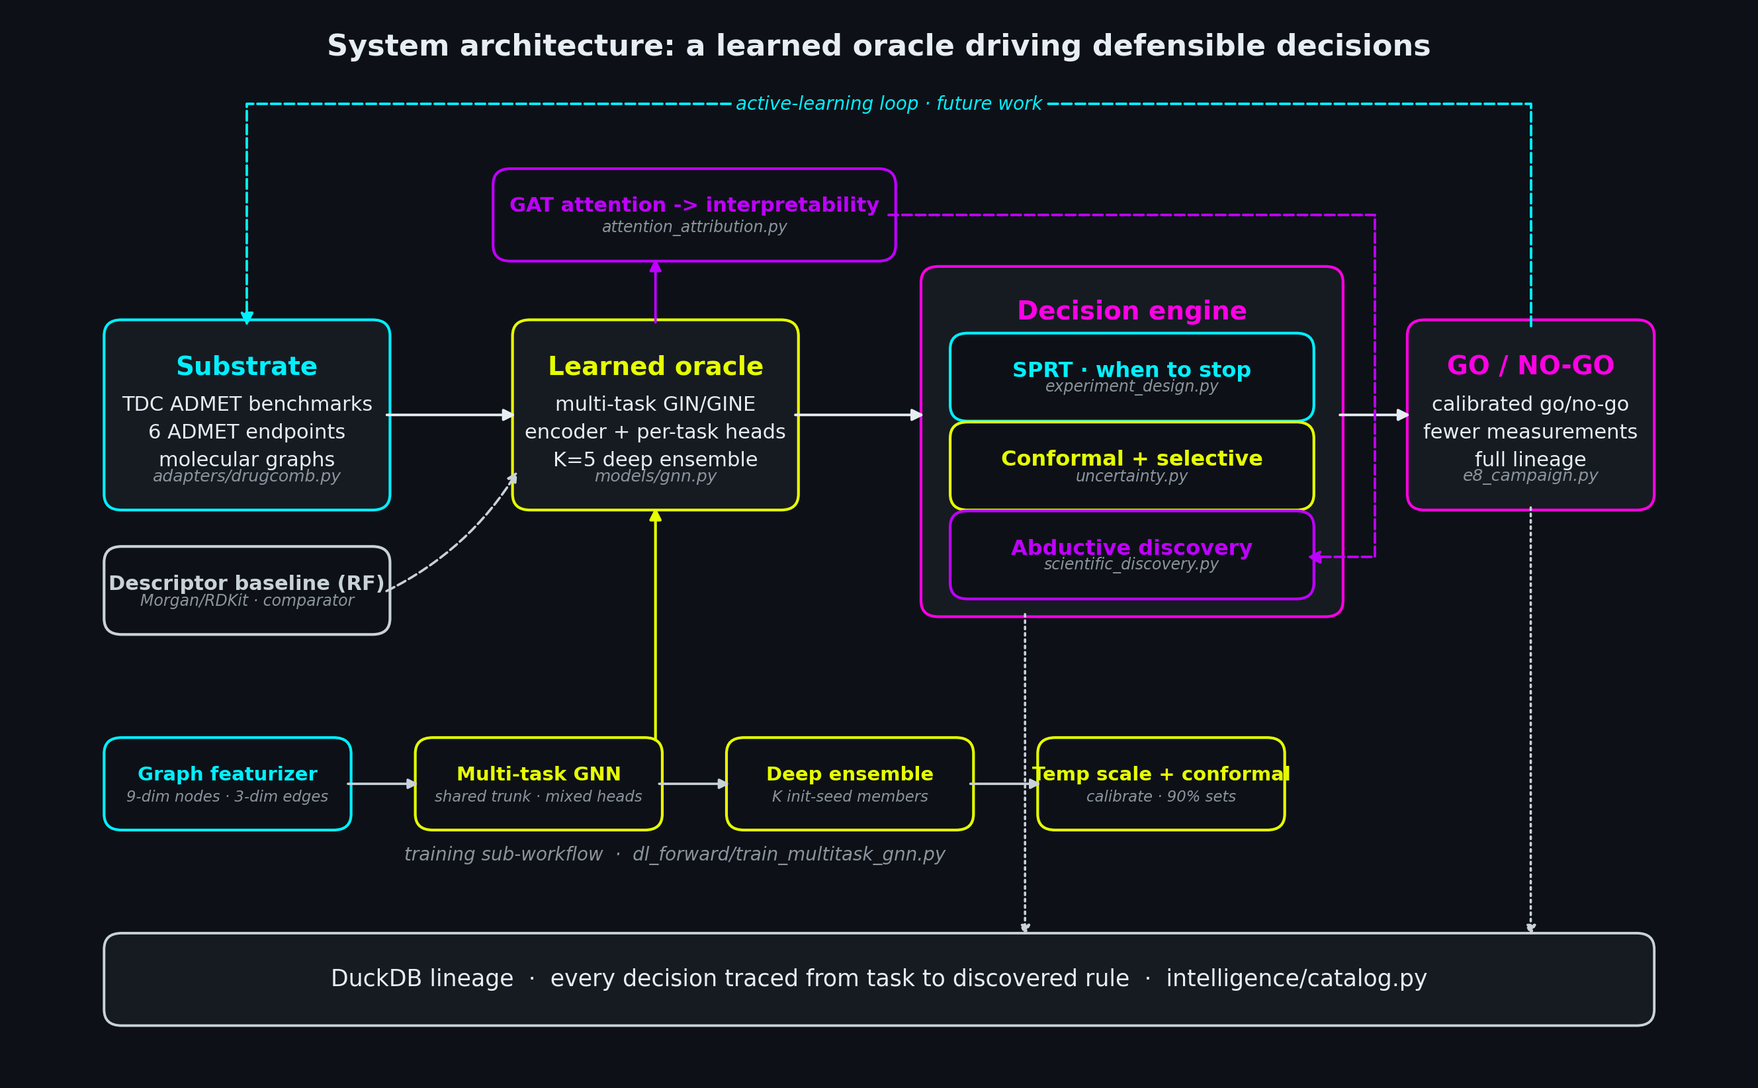
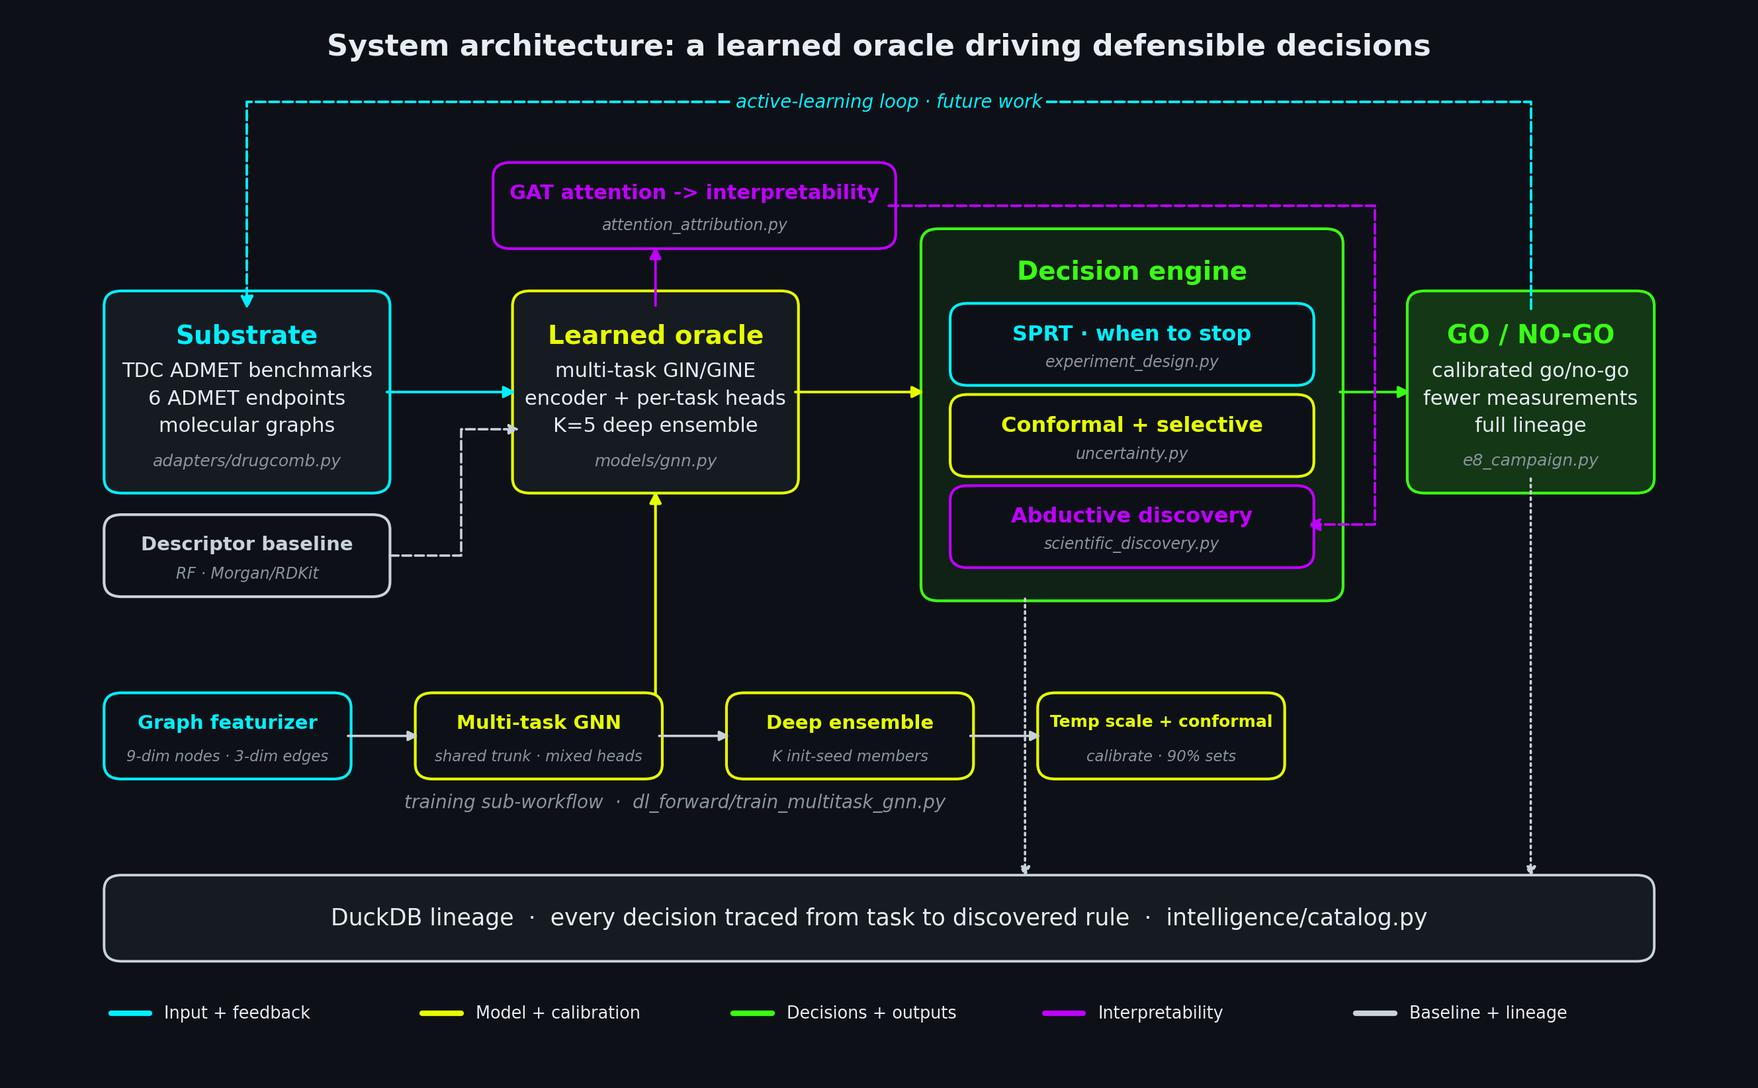
Clean manuscript prose and add green fills to architecture figure
- P1: remove inline figure filenames and 'regenerated by' clauses,
  sequential figure embeds fig0-fig10, enlarge fig0/7/8/9/10
- P2: strip 'regenerated by' clauses; refresh architecture figure with
  green fills on Decision engine and GO/NO-GO so 'decisions and outputs'
  green is clearly visible

diff --git a/preprint/dl_forward/architecture_figure_v2.py b/preprint/dl_forward/architecture_figure_v2.py
@@ -29,12 +29,11 @@ sys.path.insert(0, str(ROOT))
 sys.path.insert(0, str(ROOT / "src"))
 
 from snptx.viz.theme import (  # noqa: E402
-    BORDER,
     CARD_BG,
     DARK_BG,
     NEON_BLUE,
     NEON_GREY,
-    NEON_PINK,
+    NEON_GREEN,
     NEON_PURPLE,
     NEON_YELLOW,
     TEXT_PRIMARY,
@@ -51,21 +50,25 @@ plt.rcParams.update({
     "text.color": TEXT_PRIMARY,
 })
 
-# Neon house palette (no orange): the star oracle is yellow, the decision engine pink,
-# the interpretability branch purple, and structural/reference elements bright grey.
+# Color identifies a component's role: blue inputs/feedback, yellow learning/calibration,
+# green decisions, purple interpretability, grey baseline/lineage.
 C_SUBSTRATE = NEON_BLUE
 C_ORACLE    = NEON_YELLOW
-C_ENGINE    = NEON_PINK
+C_ENGINE    = NEON_GREEN
 C_SPRT      = NEON_BLUE
 C_CONFORMAL = NEON_YELLOW
 C_ABDUCTIVE = NEON_PURPLE
-C_GONOGO    = NEON_PINK
+C_GONOGO    = NEON_GREEN
+# Subtle green fills so the decisions/outputs role reads clearly, matching the legend.
+FILL_DECISION = (0.223, 1.0, 0.078, 0.07)
+FILL_GONOGO   = (0.223, 1.0, 0.078, 0.16)
 C_ATTN      = NEON_PURPLE
 C_STRUCT    = NEON_GREY
 
 
 def stage(ax, x, y, w, h, title, accent, *, body=None, tag=None,
-          face=CARD_BG, title_size=14, body_size=11, tag_size=9, title_pad=3.2):
+          face=CARD_BG, title_size=14, body_size=11, tag_size=9,
+          title_pad=3.2, tag_pad=2.2):
     """Draw a rounded stage box: accent title, optional body lines and module tag."""
     ax.add_patch(FancyBboxPatch(
         (x, y), w, h, boxstyle="round,pad=0.7,rounding_size=1.8",
@@ -77,7 +80,7 @@ def stage(ax, x, y, w, h, title, accent, *, body=None, tag=None,
         ax.text(cx, y + h - title_pad - 4.6, "\n".join(body), ha="center", va="top",
                 fontsize=body_size, color=TEXT_PRIMARY, linespacing=1.55)
     if tag:
-        ax.text(cx, y + 2.2, tag, ha="center", va="bottom",
+        ax.text(cx, y + tag_pad, tag, ha="center", va="bottom",
                 fontsize=tag_size, style="italic", color=TEXT_SECONDARY)
 
 
@@ -99,47 +102,48 @@ def bracket(ax, pts, color, *, ls="--", lw=1.4, ms=14):
 def build() -> Path:
     fig, ax = plt.subplots(figsize=(16.5, 9.6), constrained_layout=False)
     ax.set_xlim(-2, 172)
-    ax.set_ylim(0, 110)
+    ax.set_ylim(-8, 110)
     ax.axis("off")
     ax.set_title("System architecture: a learned oracle driving defensible decisions",
                  fontsize=16, fontweight="bold", color=TEXT_PRIMARY, pad=12)
 
     # ------------------------------------------------------------------ main row
     # Substrate -> learned oracle -> decision engine -> GO/NO-GO, all on one band.
-    stage(ax, 6, 62, 28, 20, "Substrate", C_SUBSTRATE,
+    stage(ax, 6, 60.5, 28, 23, "Substrate", C_SUBSTRATE,
           body=["TDC ADMET benchmarks", "6 ADMET endpoints", "molecular graphs"],
           tag="adapters/drugcomb.py")
-    stage(ax, 48, 62, 28, 20, "Learned oracle", C_ORACLE,
+    stage(ax, 48, 60.5, 28, 23, "Learned oracle", C_ORACLE,
           body=["multi-task GIN/GINE", "encoder + per-task heads", "K=5 deep ensemble"],
           tag="models/gnn.py")
 
     # Decision-engine container holds the three coupled decisions, stacked and spaced.
-    stage(ax, 90, 50, 42, 38, "Decision engine", C_ENGINE, title_pad=3.0)
-    stage(ax, 93, 72, 36, 8.5, "SPRT · when to stop", C_SPRT,
+    stage(ax, 90, 47.5, 42, 43.5, "Decision engine", C_ENGINE, title_pad=3.0,
+          face=FILL_DECISION)
+    stage(ax, 93, 73.5, 36, 8.5, "SPRT · when to stop", C_SPRT,
           tag="experiment_design.py", face=DARK_BG,
-          title_size=11.5, tag_size=8.5, title_pad=2.4)
-    stage(ax, 93, 62, 36, 8.5, "Conformal + selective", C_CONFORMAL,
+          title_size=11.5, tag_size=8.5, title_pad=1.8, tag_pad=1.1)
+    stage(ax, 93, 62.5, 36, 8.5, "Conformal + selective", C_CONFORMAL,
           tag="uncertainty.py", face=DARK_BG,
-          title_size=11.5, tag_size=8.5, title_pad=2.4)
-    stage(ax, 93, 52, 36, 8.5, "Abductive discovery", C_ABDUCTIVE,
+          title_size=11.5, tag_size=8.5, title_pad=1.8, tag_pad=1.1)
+    stage(ax, 93, 51.5, 36, 8.5, "Abductive discovery", C_ABDUCTIVE,
           tag="scientific_discovery.py", face=DARK_BG,
-          title_size=11.5, tag_size=8.5, title_pad=2.4)
+          title_size=11.5, tag_size=8.5, title_pad=1.8, tag_pad=1.1)
 
-    stage(ax, 140, 62, 24, 20, "GO / NO-GO", C_GONOGO,
+    stage(ax, 140, 60.5, 24, 23, "GO / NO-GO", C_GONOGO,
           body=["calibrated go/no-go", "fewer measurements", "full lineage"],
-          tag="e8_campaign.py")
+          tag="e8_campaign.py", face=FILL_GONOGO)
 
     # Left-to-right pipeline flow (each arrow sits in a clear inter-box gap at y=72).
-    arrow(ax, (34, 72), (48, 72), TEXT_PRIMARY)
-    arrow(ax, (76, 72), (90, 72), TEXT_PRIMARY)
-    arrow(ax, (132, 72), (140, 72), TEXT_PRIMARY)
+    arrow(ax, (34, 72), (48, 72), C_SUBSTRATE)
+    arrow(ax, (76, 72), (90, 72), C_ORACLE)
+    arrow(ax, (132, 72), (140, 72), C_ENGINE)
 
     # ---------------------------------------------- interpretability branch (top)
     # Sits on its own band above the oracle; connects oracle -> attention, then
     # attention -> abductive via an orthogonal bracket routed clear of the engine.
     stage(ax, 46, 90, 40, 9, "GAT attention -> interpretability", C_ATTN,
           tag="attention_attribution.py", face=DARK_BG,
-          title_size=11, tag_size=8.5, title_pad=2.4)
+          title_size=11, tag_size=8.5, title_pad=1.8, tag_pad=1.1)
     arrow(ax, (62, 82), (62, 90), C_ATTN)                      # oracle -> attention
     # attention -> abductive: route down the clear gap between the engine and GO/NO-GO
     # so it never crosses the SPRT / conformal sub-boxes, entering abductive from the right.
@@ -154,12 +158,12 @@ def build() -> Path:
             bbox=dict(facecolor=DARK_BG, edgecolor="none", pad=2))
 
     # ------------------------------------------------ descriptor baseline (comparator)
-    # Demoted RF, parked below the substrate with a dashed comparator link to the
-    # oracle. Kept out of every vertical corridor so nothing overlaps it.
-    stage(ax, 6, 48, 28, 8.5, "Descriptor baseline (RF)", C_STRUCT,
-          tag="Morgan/RDKit · comparator", face=DARK_BG,
-          title_size=11, tag_size=8.5, title_pad=2.4)
-    arrow(ax, (34, 52), (48, 66), C_STRUCT, ls="--", cs="arc3,rad=0.15", lw=1.3, ms=11)
+    # Demoted RF, parked below the substrate with an orthogonal comparator link.
+    stage(ax, 6, 48, 28, 8.5, "Descriptor baseline", C_STRUCT,
+          tag="RF · Morgan/RDKit", face=DARK_BG,
+          title_size=10.5, tag_size=8.5, title_pad=1.8, tag_pad=1.1)
+    bracket(ax, [(34.7, 52.25), (42, 52.25), (42, 67.5), (48, 67.5)],
+            C_STRUCT, ls="--", lw=1.3, ms=11)
 
     # ----------------------------------------------- training sub-workflow (bottom)
     # How the oracle is built. A left-to-right strip under the pipeline; one arrow
@@ -173,14 +177,15 @@ def build() -> Path:
     ]
     for x, title, accent, tag in subs:
         stage(ax, x, sub_y, sub_w, sub_h, title, accent, tag=tag, face=DARK_BG,
-              title_size=10.5, tag_size=8.2, title_pad=2.4)
+              title_size=9.0 if title == "Temp scale + conformal" else 10.5,
+              tag_size=8.2, title_pad=1.8, tag_pad=1.1)
     for x0 in (30, 62, 94):  # horizontal flow between the four steps
         arrow(ax, (x0, sub_y + sub_h / 2), (x0 + 8, sub_y + sub_h / 2),
               C_STRUCT, lw=1.3, ms=11)
     ax.text(64, sub_y - 2.4, "training sub-workflow  ·  dl_forward/train_multitask_gnn.py",
             ha="center", va="top", fontsize=10, style="italic", color=TEXT_SECONDARY)
     # Strip -> oracle: straight up the empty x=62 corridor into the oracle's base.
-    arrow(ax, (62, sub_y + sub_h), (62, 62), C_ORACLE, lw=1.5, ms=13)
+    arrow(ax, (62, sub_y + sub_h), (62, 60.5), C_ORACLE, lw=1.5, ms=13)
 
     # ----------------------------------------------------------- DuckDB lineage bar
     ax.add_patch(FancyBboxPatch(
@@ -190,8 +195,20 @@ def build() -> Path:
             "DuckDB lineage  ·  every decision traced from task to discovered rule  ·  intelligence/catalog.py",
             ha="center", va="center", fontsize=12.5, color=TEXT_PRIMARY)
     # Dotted drops into the lineage bar from clear corridors only (no box crossings).
-    for x0, y0 in [(100, 50), (152, 62)]:
+    for x0, y0 in [(100, 47.5), (152, 62)]:
         arrow(ax, (x0, y0), (x0, 13), C_STRUCT, ls=":", lw=1.3, ms=11)
+
+    # Keep the role key below the lineage bar, outside every connector route.
+    for x, color, label in [
+        (6, C_SUBSTRATE, "Input + feedback"),
+        (38, C_ORACLE, "Model + calibration"),
+        (70, C_ENGINE, "Decisions + outputs"),
+        (102, C_ATTN, "Interpretability"),
+        (134, C_STRUCT, "Baseline + lineage"),
+    ]:
+        ax.plot([x, x + 4], [-3, -3], color=color, lw=3, solid_capstyle="round")
+        ax.text(x + 5.5, -3, label, ha="left", va="center",
+                fontsize=9.2, color=TEXT_PRIMARY)
 
     out = FIGDIR / "fig0_architecture_v2.png"
     fig.savefig(out, bbox_inches="tight", pad_inches=0.25)

diff --git a/preprint/MANUSCRIPT_calibrated_sequential_discovery.md b/preprint/MANUSCRIPT_calibrated_sequential_discovery.md
@@ -86,7 +86,7 @@ the oracle depicted in this schematic. Its blue, neon-yellow, green, purple,
 and grey components denote inputs/feedback, modeling/calibration,
 decisions/outputs, discovery, and DuckDB lineage, respectively.
 
-<p align="center"><img src="figures/sequential_preprint/fig0_architecture.png" alt="Figure 0" width="696"></p>
+<p align="center"><img src="figures/sequential_preprint/fig0_architecture.png" alt="Figure 0" width="880"></p>
 
 <sub><strong>Figure 0.</strong> System architecture of the CPU-reproducible sequential campaign. Molecular descriptors feed a RandomForest property oracle with split-conformal calibration; the decision engine combines sequential stopping, conformal uncertainty and selective prediction, and abductive discovery to make traceable go/no-go calls. Blue denotes inputs and feedback, neon yellow the oracle and calibration, green decisions and outputs, purple discovery, and grey DuckDB lineage.</sub>
 
@@ -101,8 +101,7 @@ Sweeping effect size and simulating SPRT against a fixed-sample z-test (alpha=0.
 beta=0.20), SPRT reaches the correct decision using fewer measurements at every effect
 size. At the real ADMET operating point (0.25 sigma) it needs **65.0 versus 98.9**
 measurements, a **34%** saving; the mean saving across effect sizes is **23%**, at
-realized power **0.85** and Type I error **0.043**. Figure `fig1_sprt_efficiency.png`
-(regenerated by `feasibility_and_figures.py`).
+realized power **0.85** and Type I error **0.043** (Figure 1).
 
 <p align="center"><img src="figures/sequential_preprint/fig1_sprt_efficiency.png" alt="Figure 1" width="519"></p>
 
@@ -113,14 +112,12 @@ realized power **0.85** and Type I error **0.043**. Figure `fig1_sprt_efficiency
 Under leakage-controlled scaffold splits, empirical split-conformal coverage is
 **BBB 0.884, hERG 0.869, AMES 0.899** against a nominal 0.90 target; BBB and hERG
 fall below that target. The random-split values are 0.878, 0.909, and 0.897,
-respectively; **ECE is 0.044**. Figures `fig3_calibration_reliability.png` and
-`fig4_conformal_coverage.png` (regenerated by `feasibility_and_figures.py`).
+respectively; **ECE is 0.044** (Figures 3 and 4).
 
 ### 4.3 Selective prediction
 
 Abstaining on the least-confident molecules raises retained accuracy from **0.864** to
-**0.94** at 70% coverage, under both random and scaffold splits. Figure
-`fig2_selective_prediction.png` (regenerated by `feasibility_and_figures.py`).
+**0.94** at 70% coverage, under both random and scaffold splits (Figure 2).
 
 <p align="center"><img src="figures/sequential_preprint/fig2_selective_prediction.png" alt="Figure 2" width="502"></p>
 
@@ -144,10 +141,10 @@ descriptor-endpoint reference rather than an independent discovery. It surfaces
 **1398** chemically valid structure-property cliffs (Tanimoto 0.70-0.99,
 |dY|>=2), for example
 methyl-ester chain-length contrasts on solubility and acid/amide contrasts on
-lipophilicity. Figure `fig6_molecules.png` shows dataset lipophilicity extremes
-as endpoint context, not matched cliff pairs (regenerated by
-`feasibility_and_figures.py`). Figures `fig7_rule_cards.png` and
-`fig8_cliff_panel.png` (regenerated by `e7_render.py`).
+lipophilicity. Figure 6 shows dataset lipophilicity extremes as endpoint context,
+not matched cliff pairs. The recovered descriptor-rule cards are in Figure 7, and
+two illustrative structure-property contrasts among similar 2D structures are in
+Figure 8.
 
 ### 4.5 The value of active learning is regime-dependent
 
@@ -157,8 +154,7 @@ beats random *only when the passive baseline is unstable* (solubility: per-seed 
 +0.276 but bootstrap CI [-0.102, +0.445], not significant) and is significantly
 negative when the passive baseline is stable (lipophilicity: gap -0.026, CI
 [-0.070, -0.022]). We therefore report active learning as a characterized decision
-rule, not a headline win. Figure `fig5_label_efficiency_regime.png` (regenerated by
-`feasibility_and_figures.py`).
+rule, not a headline win (Figure 5).
 
 <p align="center"><img src="figures/sequential_preprint/fig5_label_efficiency_regime.png" alt="Figure 5" width="700"></p>
 
@@ -170,12 +166,12 @@ rule, not a headline win. Figure `fig5_label_efficiency_regime.png` (regenerated
 <sub><strong>Figure 6.</strong> Illustrative structures at the three lowest and three highest observed values in the lipophilicity dataset. These are endpoint extremes, not matched activity-cliff pairs.</sub>
 ### 4.6 End-to-end autonomous campaign
 
-<p align="center"><img src="figures/sequential_preprint/fig7_rule_cards.png" alt="Figure 7" width="373"></p>
+<p align="center"><img src="figures/sequential_preprint/fig7_rule_cards.png" alt="Figure 7" width="518"></p>
 
 <sub><strong>Figure 7.</strong> Recovered descriptor-rule cards: each row gives a z-scored tree split, fitted branch values, driver, and meta-model fit. The lipophilicity calculated-logP pairing is a closely related descriptor-endpoint reference, not an independent driver discovery.</sub>
 
 
-<p align="center"><img src="figures/sequential_preprint/fig8_cliff_panel.png" alt="Figure 8" width="384"></p>
+<p align="center"><img src="figures/sequential_preprint/fig8_cliff_panel.png" alt="Figure 8" width="533"></p>
 
 <sub><strong>Figure 8.</strong> Two observed property contrasts among similar 2D structures: a carboxylic acid and primary amide on a shared scaffold (lipophilicity Y -1.28 vs +1.96; Morgan Tanimoto 0.901), and C18 versus C6 methyl esters (solubility Y -9.00 vs -1.87; Tanimoto 0.950). These are measured associations, not causal effects.</sub>
 The wired engine runs a closed campaign across six ADMET endpoints (BBB, AMES, hERG,
@@ -188,17 +184,17 @@ versus the 357** a fixed-sample design would require, a **61% saving**, returnin
 **6 GO decisions** (each traced to its calibrated oracle and its recovered rule:
 BBB->TPSA, AMES->aromatic-ring count, hERG->heavy-atom count, solubility->calc logP,
 Caco2->HBD, HIA->TPSA). Every decision is reproducible and provenance-logged. The
-campaign timeline (SPRT budget staying below fixed-sample, with a running
-measurements-saved counter) is `fig9_campaign_timeline.png` (regenerated by `e8_campaign.py`); the task->oracle->
-decision->rule lineage graph is `fig10_lineage_graph.png` (regenerated by `e8_campaign.py`); the raw provenance is in
+campaign timeline, with the SPRT budget staying below fixed-sample and a running
+measurements-saved counter, is Figure 9; the task-to-oracle-to-decision-to-rule
+lineage graph is Figure 10. The raw provenance is in
 `e8_campaign_lineage.duckdb` and the roll-up in `e8_campaign_results.json`.
 
-<p align="center"><img src="figures/sequential_preprint/fig9_campaign_timeline.png" alt="Figure 9" width="493"></p>
+<p align="center"><img src="figures/sequential_preprint/fig9_campaign_timeline.png" alt="Figure 9" width="684"></p>
 
 <sub><strong>Figure 9.</strong> End-to-end autonomous campaign timeline. The SPRT budget stays below the fixed-sample requirement, with a running measurements-saved counter (140 versus 357 across six endpoints).</sub>
 
 
-<p align="center"><img src="figures/sequential_preprint/fig10_lineage_graph.png" alt="Figure 10" width="700"></p>
+<p align="center"><img src="figures/sequential_preprint/fig10_lineage_graph.png" alt="Figure 10" width="880"></p>
 
 <sub><strong>Figure 10.</strong> Campaign lineage matrix. Each row connects an endpoint and DuckDB record ID to its oracle check, SPRT decision, measurement budget, and discovered rule.</sub>
 ## 5. Reproducibility

diff --git a/preprint/dl_forward/MANUSCRIPT_learned_representations_admet.md b/preprint/dl_forward/MANUSCRIPT_learned_representations_admet.md
@@ -91,7 +91,7 @@ wiring of those learned components into an autonomous, traceable engine.
 
 ## 3. Methods
 
-Figure `fig0_architecture_v2.png` (regenerated by `architecture_figure_v2.py`) is the system
+Figure `fig0_architecture_v2.png` is the system
 schematic: molecular graphs feed the learned multi-task ensemble oracle, the random forest
 sits beside it as an explicit descriptor comparator, and the calibrated decision engine
 (SPRT, conformal and selective prediction, abductive discovery) turns the oracle's
@@ -204,8 +204,7 @@ including any where multi-task does not help, and we do not claim graph-model ac
 supremacy over the random forest: on raw accuracy the descriptor baseline remains
 competitive (at full data RF AUROC 0.892/0.817/0.865/0.945 on BBB/AMES/hERG/HIA versus
 multi-task 0.815/0.712/0.774/0.920; RF stays the stronger raw-accuracy predictor while
-offering no shared, transferable representation). Figure `fig_transfer_curves.png`
-(regenerated by `train_multitask_gnn.py` then `dl_forward/figures.py`).
+offering no shared, transferable representation). Figure `fig_transfer_curves.png`.
 
 <p align="center"><img src="figures/fig_transfer_curves.png" alt="Figure 1" width="667"></p>
 
@@ -255,8 +254,7 @@ noise; the classification deltas are within variability.
 | Caco2 | single | MAE ↓ | −0.012 ± 0.069 | −0.129 ± 0.080 | +0.046 ± 0.142 |
 |  | multi | MAE ↓ | −0.039 ± 0.013 | −0.013 ± 0.008 | −0.001 ± 0.039 |
 
-The per-endpoint deltas in the beneficial direction are in Figure `fig_pretrain_ablation.png`
-(regenerated by `pretrain_ablation.py` then `dl_forward/figures.py`). Consistent with Hu et
+The per-endpoint deltas in the beneficial direction are in Figure `fig_pretrain_ablation.png`. Consistent with Hu et
 al.'s own finding that attribute masking alone gives modest and sometimes negative transfer
 without a complementary structural objective, we report pretraining as a supporting ablation
 rather than a headline: the supervised multi-task signal (§4.1) remains the operative
@@ -294,8 +292,7 @@ conformal efficiency.
 of graph-model supremacy.) On the smallest endpoint (HIA, n = 578) single-GNN and
 MC-dropout edge out the ensemble on NLL and AURC, the expected high-variance exception; we
 report it rather than hide it. Figures `fig_ensemble_calibration.png` and
-`fig_conformal_efficiency.png` (regenerated by `make_ensemble_uncertainty.py` then
-`dl_forward/figures.py`).
+`fig_conformal_efficiency.png`.
 
 <p align="center"><img src="figures/fig_ensemble_calibration.png" alt="Figure 3" width="700"></p>
 
@@ -316,8 +313,7 @@ the largest savings where the ensemble's top-ranked subgroup is most enriched (h
 shift is weak and the sequential test spends slightly more than the fixed bound (85 vs
 69), and HIA (n = 106 test molecules) remains undecided within its measurement budget. The
 theory is unchanged from prior work; the oracle is now the multi-task graph ensemble.
-Figure `fig_campaign_efficiency.png` (regenerated by `e8_campaign_learned.py` then
-`dl_forward/figures.py`).
+Figure `fig_campaign_efficiency.png`.
 
 ### 4.5 Calibrated coverage and selective prediction under scaffold shift
 
@@ -331,8 +327,7 @@ models the ensemble has the best risk-coverage frontier (mean selective accuracy
 coverage 0.853 vs 0.837 single-GNN and 0.822 MC-dropout, and the lowest AURC 0.126). The
 random-forest descriptor baseline still leads the frontier overall (0.910, AURC 0.062),
 which we do not contest: the ensemble is the strongest graph-model decision-maker, not a
-claim to beat descriptors. Figure `fig_conformal_efficiency.png` (regenerated by
-`make_ensemble_uncertainty.py` then `dl_forward/figures.py`).
+claim to beat descriptors. Figure `fig_conformal_efficiency.png`.
 
 ### 4.6 Interpretability: do attention maps recover descriptor rules?
 
@@ -345,8 +340,7 @@ AUROC 0.77 on hERG, 0.76 on BBB). This negative result is consistent with the li
 that attention weights are not, on their own, faithful explanations (Jain and Wallace
 2019); we therefore rely on the abductive discovery cycle, not raw attention, for
 interpretable structure-property rules, and report the attention probe as a limitation.
-Figure `fig_attention_probe.png` (regenerated by `attention_attribution.py` then
-`dl_forward/figures.py`).
+Figure `fig_attention_probe.png`.
 
 <p align="center"><img src="figures/fig_attention_probe.png" alt="Figure 5" width="700"></p>
 
@@ -364,8 +358,7 @@ against a 213 fixed-sample budget, a 29.7% aggregate reduction, with every decis
 oracle prediction, and SPRT trace logged to the DuckDB lineage store. The outcome is
 reported in full, including the two harder cases: HIA stays undecided within its
 measurement budget and BBB's weak realized shift costs slightly more than the fixed bound
-(see §4.4). The per-endpoint measurements are in Figure `fig_campaign_efficiency.png`
-(regenerated by `e8_campaign_learned.py` then `dl_forward/figures.py`); the DuckDB lineage
+(see §4.4). The per-endpoint measurements are in Figure `fig_campaign_efficiency.png`; the DuckDB lineage
 store that records every decision is shown in the system schematic (Figure
 `fig0_architecture_v2.png`).
 
